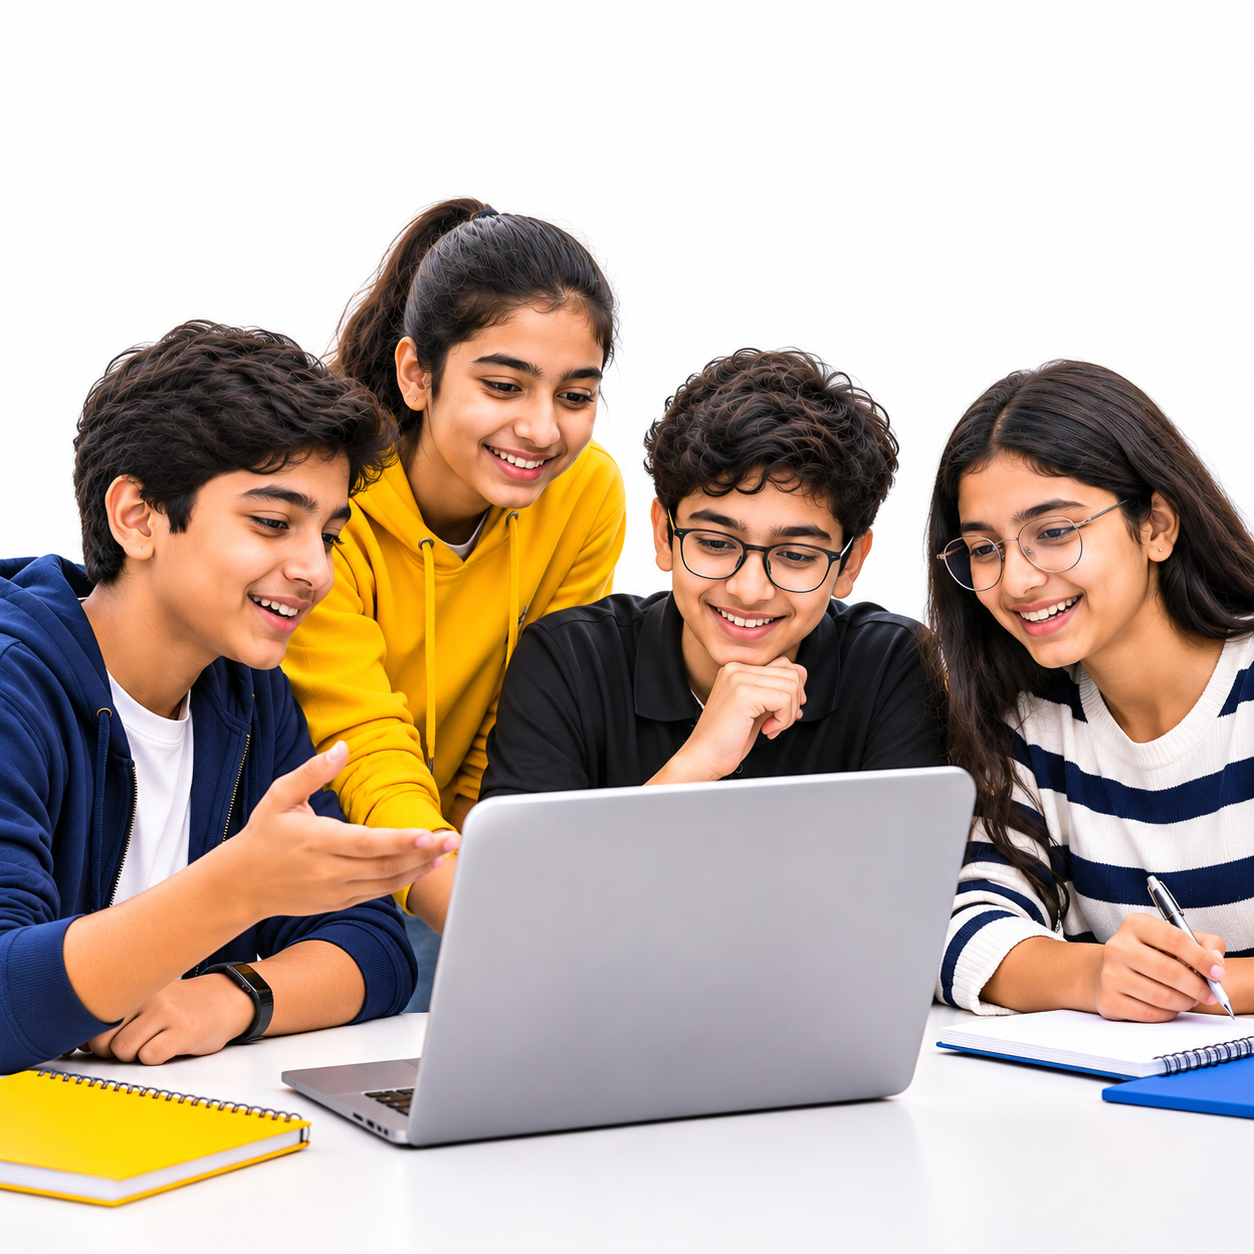
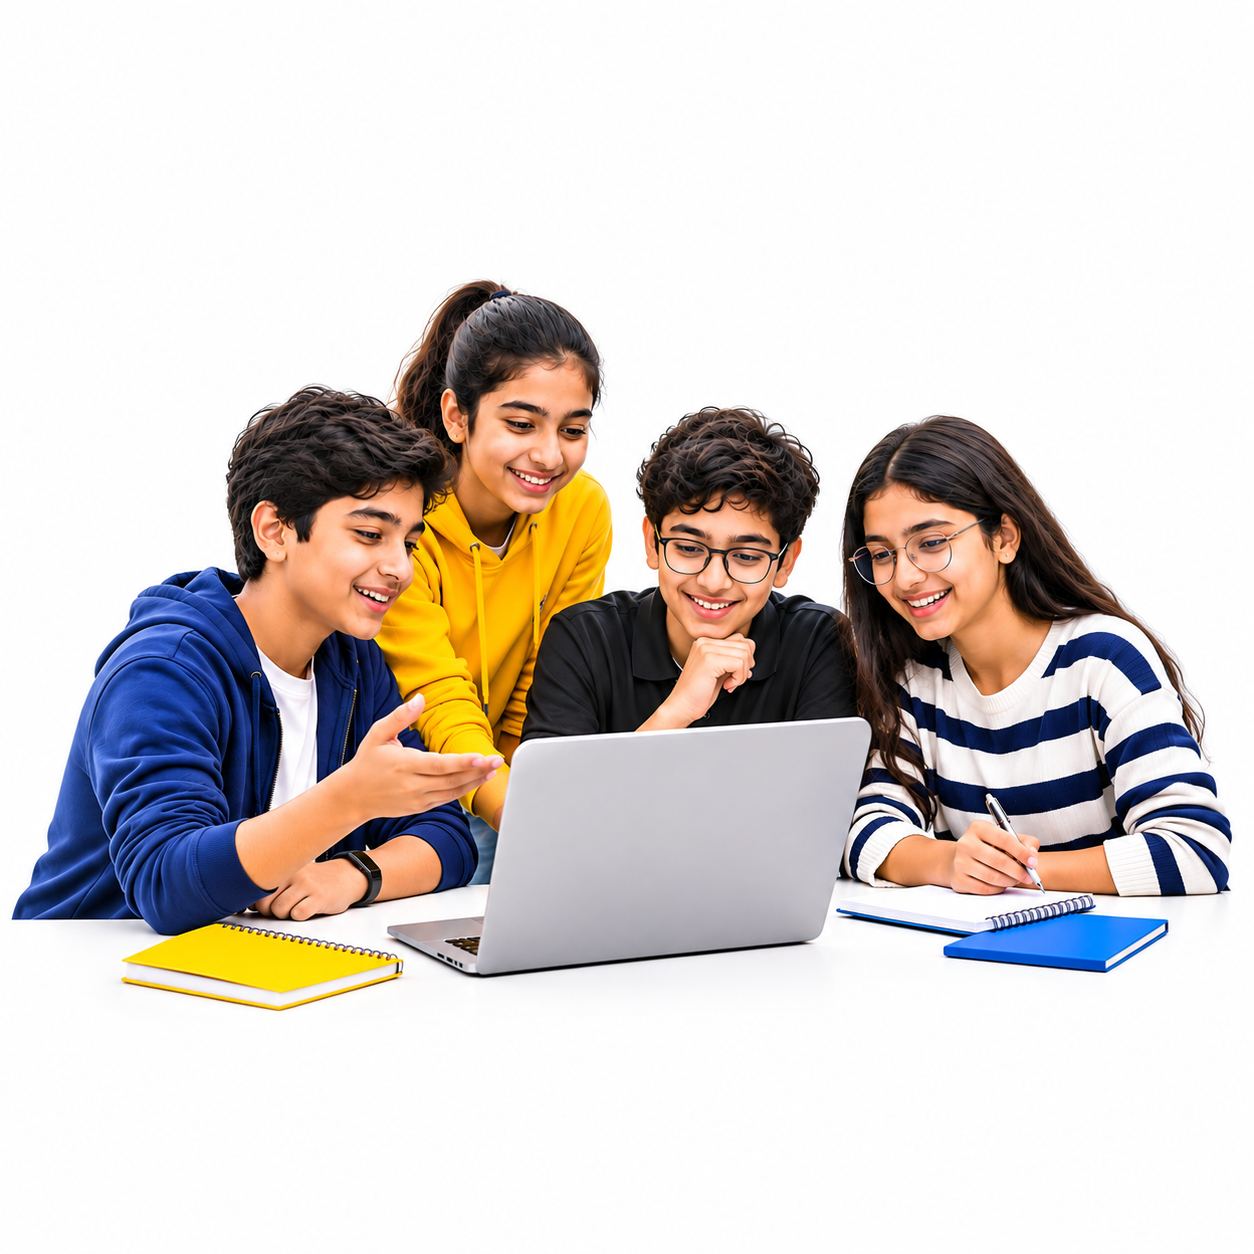
Removed background color and updated the white color, focus going to rectangular part of the image v70

diff --git a/src/Hero.jsx b/src/Hero.jsx
@@ -71,10 +71,10 @@ const Hero = () => {
           background:
             radial-gradient(
               circle at 90% 20%,
-              #fffbe5,
+              #fffff,
               transparent 32%
             ),
-            #fffcf5;
+            #fffff;
           color: #004f9e;
           font-family: Arial, Helvetica, sans-serif;
           margin-top:41px;
